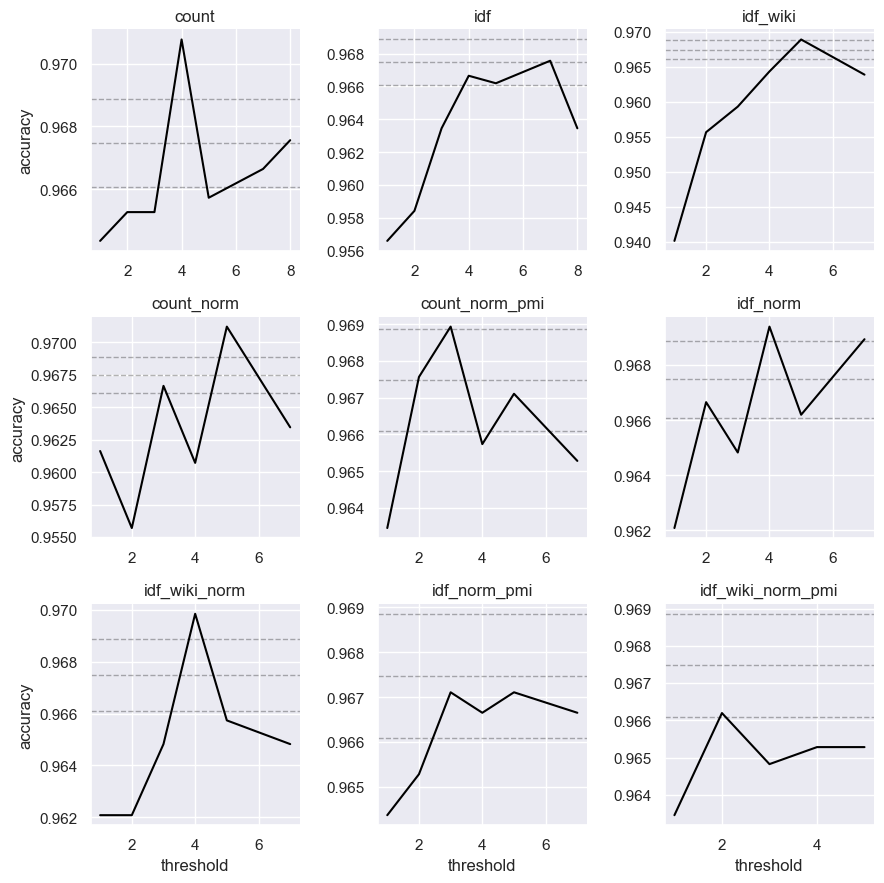
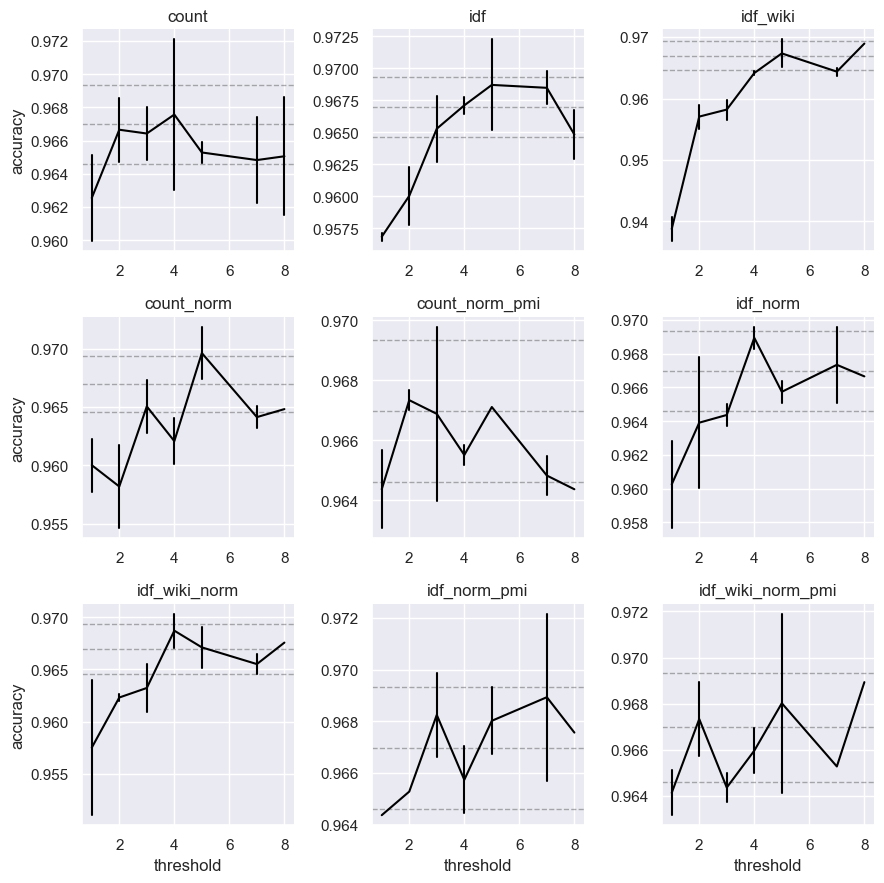
Add count train runs

diff --git a/analyze_results.py b/analyze_results.py
@@ -25,7 +25,7 @@ def get_number_of_edges():
     for dataset in ["r8", "mr", "r52", "ohsumed"]:
         number_of_edges = []
         document_triples = file.get_document_triples_metrics(dataset)
-        maximum = document_triples['count'].max()
+        maximum = int(document_triples['count'].max())
         for t in range(1, maximum + 1):
             num = document_triples[document_triples["count"] > t].shape[0]
             number_of_edges.append(num)
@@ -43,8 +43,9 @@ def plot_edge_numbers():
 
     edge_counts = pd.DataFrame(series_array, columns=["dataset", "count", "threshold"])
     fig, ax = plt.subplots(1, 1)
-    sns.lineplot(y="count", x="threshold", data=edge_counts, hue="dataset", markers=None)
-    ax.set_yscale('log')
+    sns.lineplot(y="count", x="threshold", data=edge_counts, hue="dataset", marker="o", dashes=False)
+    ax.set_yscale('symlog')
+    ax.set_xticks(range(25))
     fig.tight_layout()
     fig.savefig(f"{io.get_root_path()}/plots/edge_thresholds_{FLAGS.version}.png")
 
@@ -173,14 +174,40 @@ def plot_all(metric="accuracy", density=False):
     for dataset in available_datasets:
         if "20ng" in dataset:
             continue
+        count_model_runs(dataset)
         plot_metric(dataset, metric)
         if density:
             plot_edge_density(dataset)
 
 
+def count_model_runs(dataset):
+    results = file.get_eval_logs(dataset)
+
+    count_dict = {}
+
+    for index, row in results.iterrows():
+        name = f"{row['wiki_enabled']}_{row['window_size']}_{row['raw_count']}_{row['threshold']}"
+        if name in count_dict:
+            count_dict[name] += 1
+        else:
+            count_dict[name] = 1
+
+    counts = []
+    for key in count_dict:
+        counts.append(count_dict[key])
+    print(counts)
+
+
+def get_number_of_entities(dataset):
+    entities = file.get_entity2id(dataset)
+    counter = 0
+    for index, row in entities.iterrows():
+        if not(row["wikiID"] == "-1"):
+            counter += 1
+
+    print(f"{dataset}: {counter}")
+
+
 if __name__ == '__main__':
     plot_all(density=True)
-
-
-    # get_results_statistics("r8")
-    # plot_edge_numbers()
+    plot_edge_numbers()
